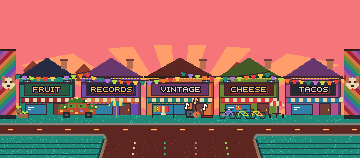
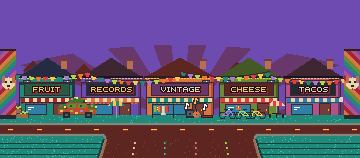
Darken Kensington Market's sky to twilight: purple rays on violet, plum roofs on RECORDS and TACOS with a purple lit edge, and a dbrick back roofline

diff --git a/art/tools/backdrops.py b/art/tools/backdrops.py
@@ -202,7 +202,7 @@ HOUSE = (6, 12, 10, 18)
 # SLIM is the slim house's windows and door: tall windows either side of the door.
 SLIM = (4, 8, 10, 13)
 # The lit left edge of a roof, a ramp step lighter than the roof.
-RAKE = dict(slate="grey", dslate="slate", navy="dslate", purple="mauve", dred="red", brown="tan")
+RAKE = dict(slate="grey", dslate="slate", navy="dslate", purple="mauve", plum="purple", dred="red", brown="tan")
 
 
 def house(cv, x, w, wall, roof, door="dred", top=40, base=104, roof_h=26, parts=HOUSE, curtains=None,
@@ -1469,18 +1469,18 @@ def patio(cv, cx, base, a, b):
 
 def kensington():
     cv = sn.Canvas(W, H)
-    # a Pedestrian Sunday afternoon: a rosy sunburst of peach rays from the end of the street, flat pink
+    # a Pedestrian Sunday at twilight: a sunburst of purple rays from the end of the street, flat violet
     # beyond its arc
-    sunburst(cv, CX, BASE + 6, 7, "peach", "pink", FAR_WALK, r=(W * 0.65, BASE + 6 - CALM))
+    sunburst(cv, CX, BASE + 6, 7, "purple", "violet", FAR_WALK, r=(W * 0.65, BASE + 6 - CALM))
     # rooftops of the back lanes behind the houses
-    roofline(cv, BASE - 34, ((24, 18, 10), (76, 16, 8), (228, 18, 9), (300, 16, 10)), "brick")
+    roofline(cv, BASE - 34, ((24, 18, 10), (76, 16, 8), (228, 18, 9), (300, 16, 10)), "dbrick")
     # painted houses turned shops across the street
     for cx, w, wall_c, roof, awn, sign, board, letters in (
             (47, 56, "dturq", "navy", "dred", "FRUIT", "forest", "gold"),
-            (CX - 69, 60, "violet", "purple", "ochre", "RECORDS", "navy", "gold"),
+            (CX - 69, 60, "violet", "plum", "ochre", "RECORDS", "navy", "gold"),
             (CX, 68, "ochre", "dbrick", "dturq", "VINTAGE", "purple", "cream"),
             (CX + 69, 60, "olive", "dolive", "red", "CHEESE", "dbrick", "gold"),
-            (313, 56, "mauve", "purple", "lake", "TACOS", "coal", "cream")):
+            (313, 56, "mauve", "plum", "lake", "TACOS", "coal", "cream")):
         market_house(cv, cx, w, wall_c, roof, awn, sign, board, letters)
     # pennants zig-zagging across the street between the house fronts
     pennants = ("red", "gold", "dturq", "lilac", "lime", "orange")

diff --git a/art/tools/cards.py b/art/tools/cards.py
@@ -809,8 +809,8 @@ def kensington_view():
     paving = flecked("dturq", "turquoise", 23)
     a = ZoneView("kensington-market", flecked("dbrick", "brick", 41), paving, "gold", (3, 6), curb="stone",
                  walk="dturq", lawn=paving, walk_fleck="turquoise", edge="dred")
-    bd.sunburst(a, AW / 2, FAR_Y + 2, 5, "peach", "pink", FAR_Y, w=AW)
-    for x, w, wall_c, roof, awn in ((-14, 28, "dturq", "navy", "dred"), (14, 26, "violet", "purple", "ochre"),
+    bd.sunburst(a, AW / 2, FAR_Y + 2, 5, "purple", "violet", FAR_Y, w=AW)
+    for x, w, wall_c, roof, awn in ((-14, 28, "dturq", "navy", "dred"), (14, 26, "violet", "plum", "ochre"),
                                     (40, 26, "ochre", "dbrick", "dturq"), (66, 26, "olive", "dolive", "red")):
         for k in range(w // 2 + 2):
             a.fill(x - 1 + k, 7 - k // 2, w + 2 - 2 * k, 1, roof)

diff --git a/art/tools/ambient.py b/art/tools/ambient.py
@@ -54,7 +54,7 @@ ambient-kite              17x28  a diamond kite on its string; fly 4 x 200ms (th
 
 The sky movers fly far back, so each is at full size only with no depth variants, faces right, and has
 one fly tag. Each is a few large shapes that read at 1x on its sky (Yonge Street's slate, then azure,
-pink, lilac, peach and gold), with one ink line round every fill except the geese's and the bats'. A line
+violet, lilac, peach and gold), with one ink line round every fill except the geese's and the bats'. A line
 one pixel thin, a rope, a string, a contrail, a skid or a rotor blur, is drawn past the outline so the ink
 does not thicken it.
 - The plane is a white fuselage over a grey belly with one row of windows, a rounded nose with cockpit

diff --git a/art/style-guide.md b/art/style-guide.md
@@ -291,18 +291,18 @@ Backdrops are 360×158 on screen rows 48 to 205 (`art/tools/backdrops.py`); band
 
 ## Skies
 
-- Each neighbourhood has its own sky, flat above `CALM` (70 rows over the far side's ground row) but for Yonge Street's towers. Ink edges hold 3:1 or more on every sky.
+- Each neighbourhood has its own sky, flat above `CALM` (70 rows over the far side's ground row) but for Yonge Street's towers. Ink edges hold 3:1 or more on every sky but Kensington Market's violet (2.8:1), where a sky mover reads by its fills.
 
-| Sky                               | Bands or colours                                                    | Where                                          |
-| --------------------------------- | ------------------------------------------------------------------- | ---------------------------------------------- |
-| Cabbagetown (dusk)                | lilac, pink, peach, gold bands; a crescent moon and the first stars | `backdrop-cabbagetown`, `screen-end` (no moon) |
-| Distillery District (golden hour) | peach, orange, amber bands; a sun low over Trinity Square, gulls    | `backdrop-distillery-district`                 |
-| High Park (deep clear blue)       | azure over sky, white clouds                                        | `backdrop-high-park`                           |
-| Kensington Market (rosy sunburst) | flat peach rays over pink from the end of the street (`sunburst`)   | `backdrop-kensington-market`                   |
-| The Beaches (late afternoon)      | gold over yellow, small clouds and gulls                            | `backdrop-the-beaches`                         |
-| Toronto at night                  | navy, purple, mauve bands; a crescent moon, stars in the navy band  | `screen-loading`                               |
-| Toronto autumn day                | foam over haze                                                      | `screen-home`                                  |
-| Yonge Street (evening)            | slate, dslate, purple, mauve bands; a full moon and stars           | `backdrop-yonge-street`                        |
+| Sky                                   | Bands or colours                                                     | Where                                          |
+| ------------------------------------- | -------------------------------------------------------------------- | ---------------------------------------------- |
+| Cabbagetown (dusk)                    | lilac, pink, peach, gold bands; a crescent moon and the first stars  | `backdrop-cabbagetown`, `screen-end` (no moon) |
+| Distillery District (golden hour)     | peach, orange, amber bands; a sun low over Trinity Square, gulls     | `backdrop-distillery-district`                 |
+| High Park (deep clear blue)           | azure over sky, white clouds                                         | `backdrop-high-park`                           |
+| Kensington Market (twilight sunburst) | flat purple rays over violet from the end of the street (`sunburst`) | `backdrop-kensington-market`                   |
+| The Beaches (late afternoon)          | gold over yellow, small clouds and gulls                             | `backdrop-the-beaches`                         |
+| Toronto at night                      | navy, purple, mauve bands; a crescent moon, stars in the navy band   | `screen-loading`                               |
+| Toronto autumn day                    | foam over haze                                                       | `screen-home`                                  |
+| Yonge Street (evening)                | slate, dslate, purple, mauve bands; a full moon and stars            | `backdrop-yonge-street`                        |
 
 - A zone card repeats its backdrop's sky, bands and sun included.
 - Banded skies are hard-edged horizontal bands of flat colour (`bands`), each 0.7 times the height of the band above it. Above each seam the lower band's colour runs a 1-row line 2 rows up, and another 5 rows up on a band 12 rows or taller. No gradients, no dither.
